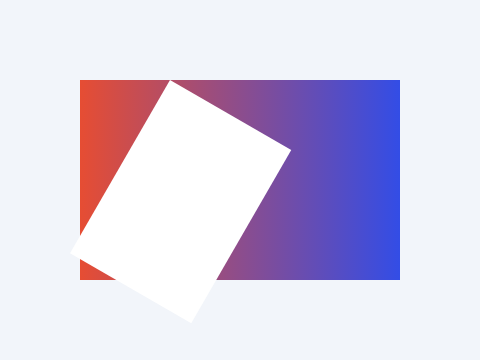
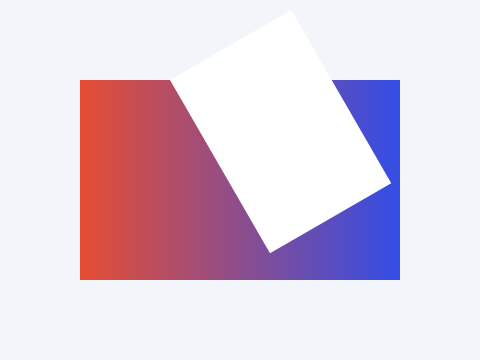
Frame bg color fix

Changed region(s): [[0.1562, 0.2139, 0.8125, 0.7944]]

diff --git a/libs/headless-figma-clone/src/render/DesignCompiler.ts b/libs/headless-figma-clone/src/render/DesignCompiler.ts
@@ -866,7 +866,7 @@ function emitFrameChildren(
       emitMaskCluster(ch, masked, f, frameAbsX, frameAbsY, originX, originY, shiftX, shiftY, htmlParts, cssParts, z, imgMap, patternTiles, warnings, env);
       continue;
     }
-    emitScene(ch, originX + f.x, originY + f.y, shiftX, shiftY, htmlParts, cssParts, z, imgMap, patternTiles, warnings, flexInner, env, f.children);
+    emitScene(ch, originX + f.x, originY + f.y, shiftX, shiftY, htmlParts, cssParts, z, imgMap, patternTiles, warnings, flexInner, env, f.children, flexInner ? f : undefined);
     i++;
   }
 }
@@ -885,7 +885,8 @@ function emitScene(
   warnings: string[],
   insideFlex: boolean,
   env: FileEnvelope,
-  parentChildren: SceneNode[] | null
+  parentChildren: SceneNode[] | null,
+  parentFrame?: FrameNode
 ): void {
   const absX = originX + n.x + shiftX;
   const absY = originY + n.y + shiftY;
@@ -1039,7 +1040,7 @@ function emitScene(
   }
 
   if (n.type === 'RECTANGLE') {
-    emitRectangle(n, absX, absY, zIndex, opRot, htmlParts, cssParts, imgMap, patternTiles, warnings, insideFlex, env);
+    emitRectangle(n, absX, absY, zIndex, opRot, htmlParts, cssParts, imgMap, patternTiles, warnings, insideFlex, env, parentFrame);
     return;
   }
   if (n.type === 'ELLIPSE') {
@@ -1372,7 +1373,8 @@ function emitRectangle(
   patternTiles: Record<string, string>,
   warnings: string[],
   insideFlex: boolean,
-  env: FileEnvelope
+  env: FileEnvelope,
+  parentFrame?: FrameNode
 ): void {
   const shadow = dropShadowCss(r.effects);
   const fillCss = stackedFillsCss(effectiveRectFills(r, env), imgMap, patternTiles, warnings, `rect:${r.id}`, env);
@@ -1384,7 +1386,7 @@ function emitRectangle(
       : 'none';
   const radius = r.cornerRadius !== undefined ? `border-radius:${String(r.cornerRadius)}px;` : '';
   const pos = insideFlex
-    ? sceneChildPos(r, insideFlex, absX, absY)
+    ? sceneChildPos(r, insideFlex, absX, absY, parentFrame)
     : r.constraints
       ? constraintPositionCss(r, 200, 100)
       : `position:absolute;left:${String(absX)}px;top:${String(absY)}px;width:${String(r.width)}px;height:${String(r.height)}px;`;

diff --git a/libs/headless-figma-clone/tests/mcp/useFigmaScript.phase6.factories.test.ts b/libs/headless-figma-clone/tests/mcp/useFigmaScript.phase6.factories.test.ts
@@ -95,6 +95,34 @@ return {};
     });
   });
 
+  it('createFrame and createAutoLayout default to white fill (Figma parity)', async () => {
+    await withWs(async () => {
+      const engine = new DocumentEngine({
+        persistence: new JsonPersistence(),
+        logger: createConsoleLogger('error'),
+      });
+      await engine.createEmptyFile({ fileName: 'F' });
+      const run = await runUseFigmaScript(
+        `
+const frame = figma.createFrame();
+const row = figma.createAutoLayout();
+figma.currentPage.appendChild(frame);
+frame.appendChild(row);
+return {};
+`.trim(),
+        engine
+      );
+      expect(run.kind).toBe('ok');
+      if (run.kind !== 'ok') return;
+      await engine.applyTransaction(run.operations);
+      const white = [{ type: 'SOLID', color: { r: 1, g: 1, b: 1 } }];
+      const frames = run.operations
+        .filter((o) => o.op === 'createNode' && o.node.type === 'FRAME')
+        .map((o) => (o.op === 'createNode' ? o.node.fills : undefined));
+      expect(frames).toEqual([white, white]);
+    });
+  });
+
   it('createPage appends PAGE under DOCUMENT', async () => {
     await withWs(async () => {
       const engine = new DocumentEngine({

diff --git a/libs/headless-figma-clone/src/engine/DocumentEngine.ts b/libs/headless-figma-clone/src/engine/DocumentEngine.ts
@@ -44,6 +44,7 @@ import { parseStyledSegmentsInput } from './styledSegmentsNormalize.js';
 import { validateStyledSegments } from './utf16Segments.js';
 import { findVariableDefinition } from '../variables/resolution.js';
 import type { FrameVariableBindings, TextVariableBindings } from '../model/types.js';
+import { DEFAULT_FRAME_FILLS } from '../model/types.js';
 
 export type { EngineErrorCode } from '../util/errors.js';
 
@@ -301,7 +302,7 @@ function normalizeNewFrame(spec: Extract<NewNodeSpec, { type: 'FRAME' }>, id: st
     height: typeof spec.height === 'number' ? spec.height : 100,
     /** New nodes always start empty; subtrees are added via further ops. */
     children: [],
-    fills: spec.fills,
+    fills: spec.fills !== undefined ? spec.fills : [...DEFAULT_FRAME_FILLS],
     backgrounds: spec.backgrounds,
     strokes: spec.strokes,
     strokeWeight: spec.strokeWeight,

diff --git a/libs/headless-figma-clone/src/layout/flexChildCss.ts b/libs/headless-figma-clone/src/layout/flexChildCss.ts
@@ -95,16 +95,14 @@ export function flexChildLayoutCss(
           ? 'align-self:flex-end;'
           : '';
   const crossDim =
-    crossSizing === 'FIXED'
+    crossSizing === 'HUG'
       ? isRow
-        ? `height:${String(crossSize)}px;`
-        : `width:${String(crossSize)}px;`
-      : crossSizing === 'HUG'
-        ? isRow
-          ? 'height:auto;'
-          : 'width:auto;'
+        ? 'height:auto;'
+        : 'width:auto;'
+      : crossSizing === 'FILL'
+        ? ''
         : isRow
-          ? 'height:auto;min-height:0;'
-          : 'width:auto;min-width:0;';
+          ? `height:${String(crossSize)}px;`
+          : `width:${String(crossSize)}px;`;
   return `position:relative;left:0;top:0;flex:${String(grow)} ${String(shrink)} ${basisMain};min-width:0;${alignSelf}${crossDim}`;
 }

diff --git a/libs/headless-figma-clone/tests/layout/autolayout.flexbox.snapshot.test.ts b/libs/headless-figma-clone/tests/layout/autolayout.flexbox.snapshot.test.ts
@@ -23,4 +23,16 @@ describe('autolayout flexbox snapshot', () => {
     expect(out.html).toContain('flex-direction:row');
     expect(out.html).toContain('hfc-frame-flex-I3');
   });
+
+  it('gives flex children explicit cross-axis size when layoutSizing is unset', () => {
+    const env = load('phase4-compile-harness.hfc.json');
+    const out = designCompiler.compileSubtree({
+      envelope: env,
+      rootNodeId: 'I3',
+      options: { viewportPaddingPx: 0, includeCss: true, inlineCss: false },
+    });
+    expect(out.css).toContain('.hfc-node-I4{');
+    expect(out.css).toMatch(/\.hfc-node-I4\{[^}]*height:28px/);
+    expect(out.css).not.toMatch(/\.hfc-node-I4\{[^}]*height:auto/);
+  });
 });

diff --git a/libs/headless-figma-clone/src/mcp/useFigmaScript.ts b/libs/headless-figma-clone/src/mcp/useFigmaScript.ts
@@ -28,6 +28,7 @@ import type {
   StyledSegment,
   VectorNode,
 } from '../model/types.js';
+import { DEFAULT_FRAME_FILLS } from '../model/types.js';
 import { createStylesApi } from '../styles/StylesAPI.js';
 import { bindVariableToNodeField, createVariablesApi } from '../variables/VariablesAPI.js';
 import { ValidationErr } from '../util/errors.js';
@@ -393,7 +394,7 @@ abstract class RuntimeSceneNode {
 class RuntimeFrame extends RuntimeSceneNode {
   readonly type = 'FRAME' as const;
   name = 'Frame';
-  fills?: FrameNode['fills'];
+  fills: FrameNode['fills'] = [...DEFAULT_FRAME_FILLS];
   strokes?: FrameNode['strokes'];
   strokeWeight?: number;
   strokeAlign?: FrameNode['strokeAlign'];

diff --git a/libs/headless-figma-clone/src/model/types.ts b/libs/headless-figma-clone/src/model/types.ts
@@ -82,6 +82,9 @@ export interface VariableColorPaint extends PaintBase {
 
 export type Paint = SolidPaint | GradientPaint | ImagePaint | PatternPaint | VariableColorPaint;
 
+/** Figma parity: `createFrame()` / `createAutoLayout()` default to a white fill when fills are omitted. */
+export const DEFAULT_FRAME_FILLS: Paint[] = [{ type: 'SOLID', color: { r: 1, g: 1, b: 1 } }];
+
 export interface VariableMode {
   id: string;
   name: string;
